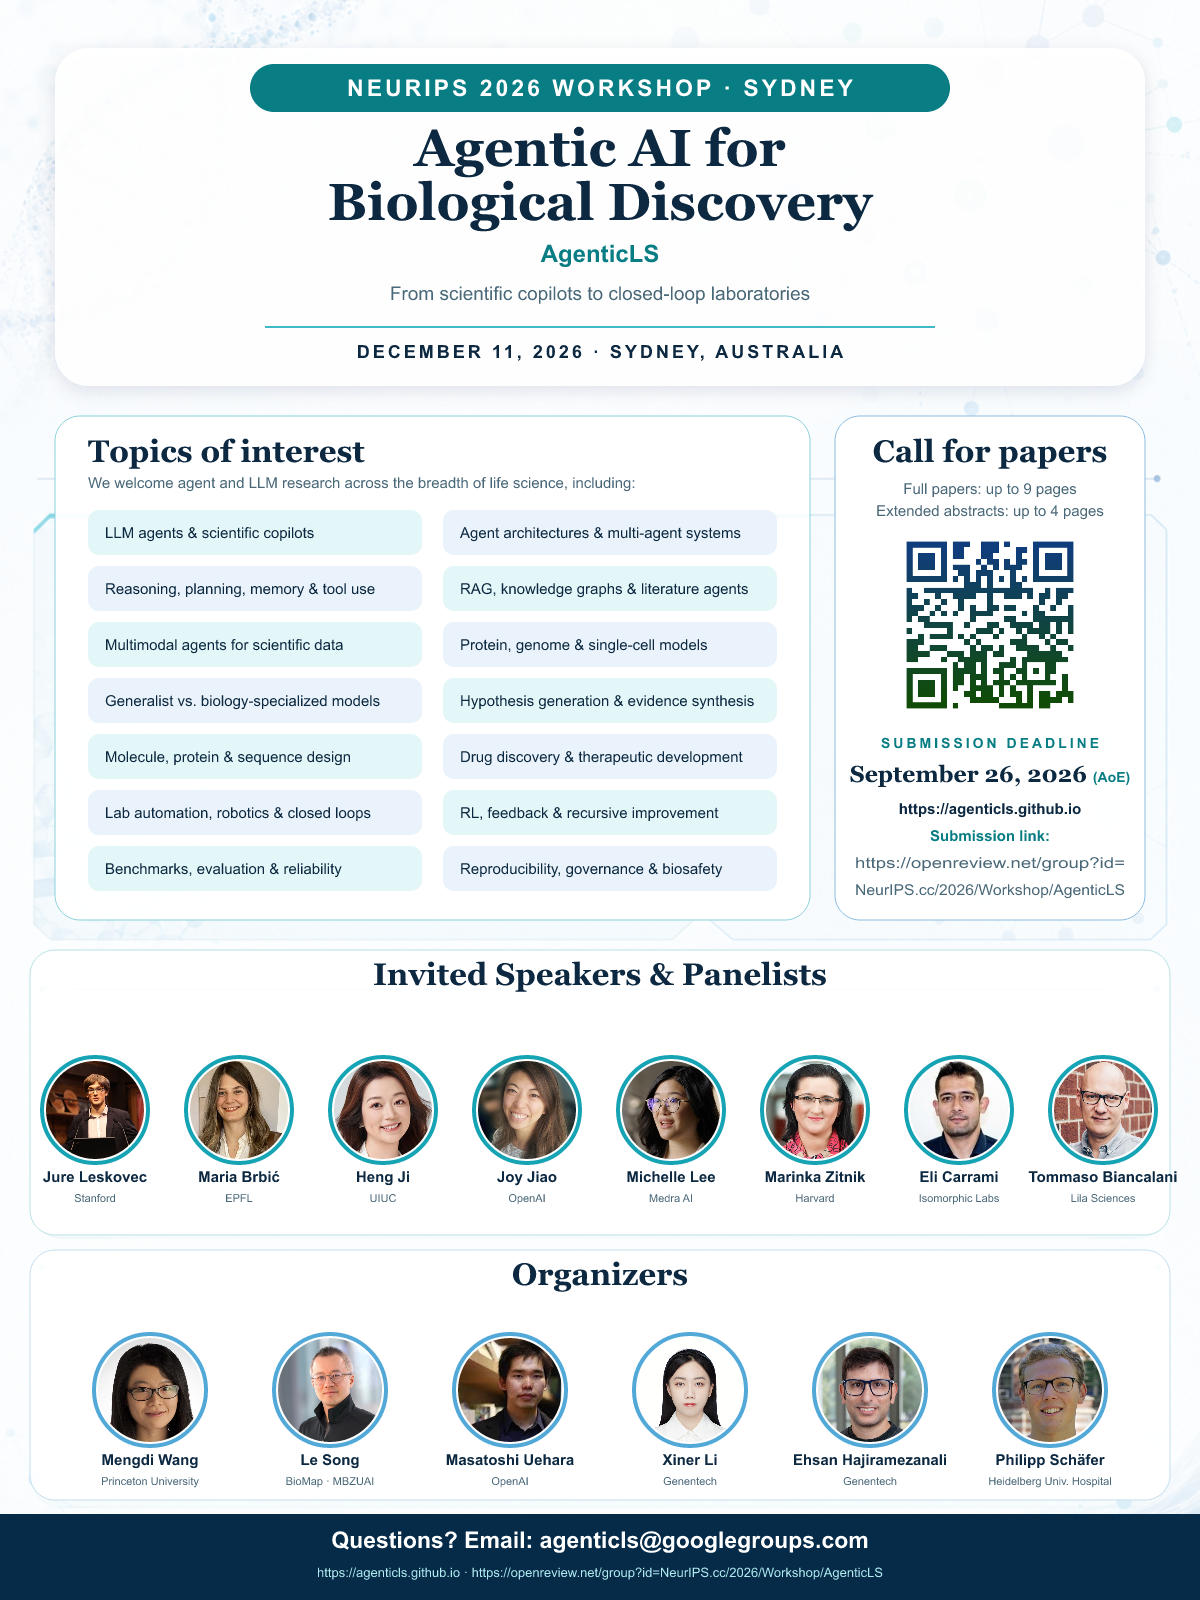
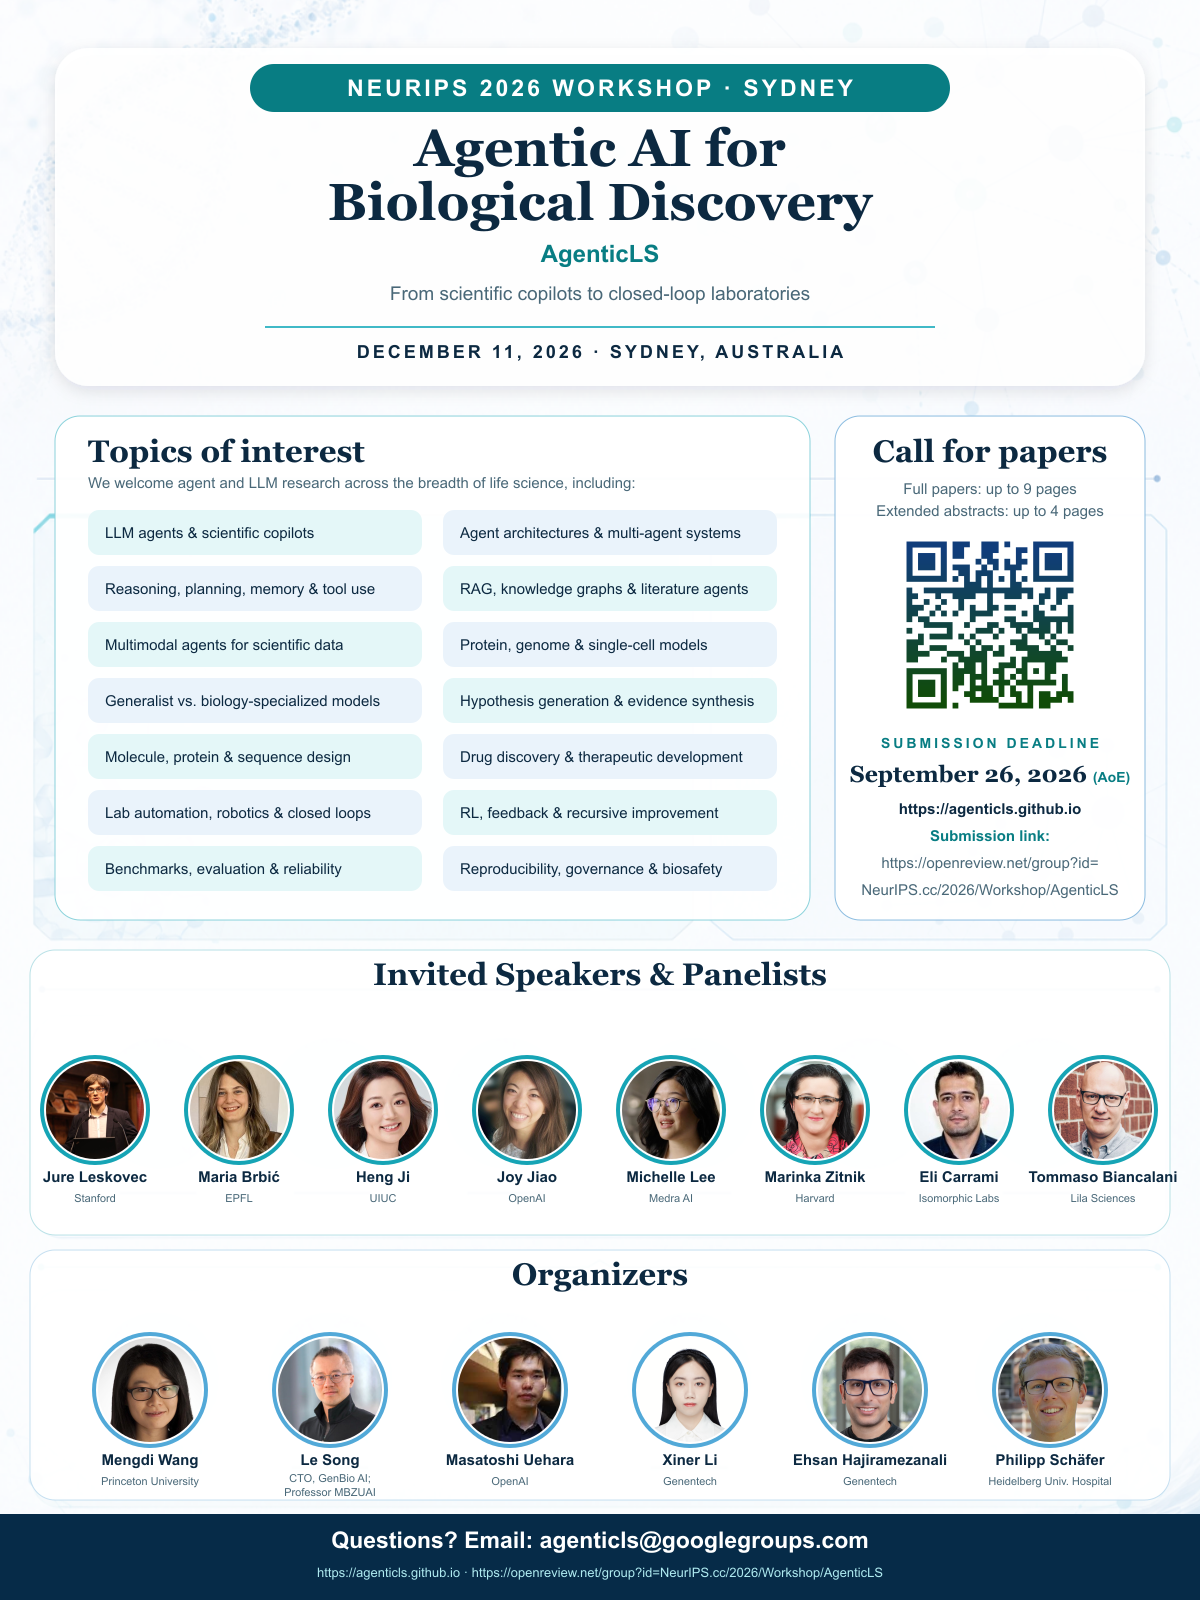
Update Le Song affiliation

Changed region(s): [[0.7708, 0.3438, 0.8942, 0.4375], [0.7092, 0.5312, 0.925, 0.5625], [0.2467, 0.9062, 0.3083, 0.9375]]

diff --git a/organizers.html b/organizers.html
@@ -50,7 +50,7 @@
       <div class="person">
         <img class="photo" src="assets/photos/le-song.jpg" alt="Le Song" />
         <div class="name">Le Song</div>
-        <div class="aff">Chief AI Scientist, BioMap; Professor, MBZUAI</div>
+        <div class="aff">CTO, GenBio AI; Professor MBZUAI</div>
       </div>
       <div class="person">
         <img class="photo" src="assets/photos/xiner-li.png" alt="Xiner Li" />
